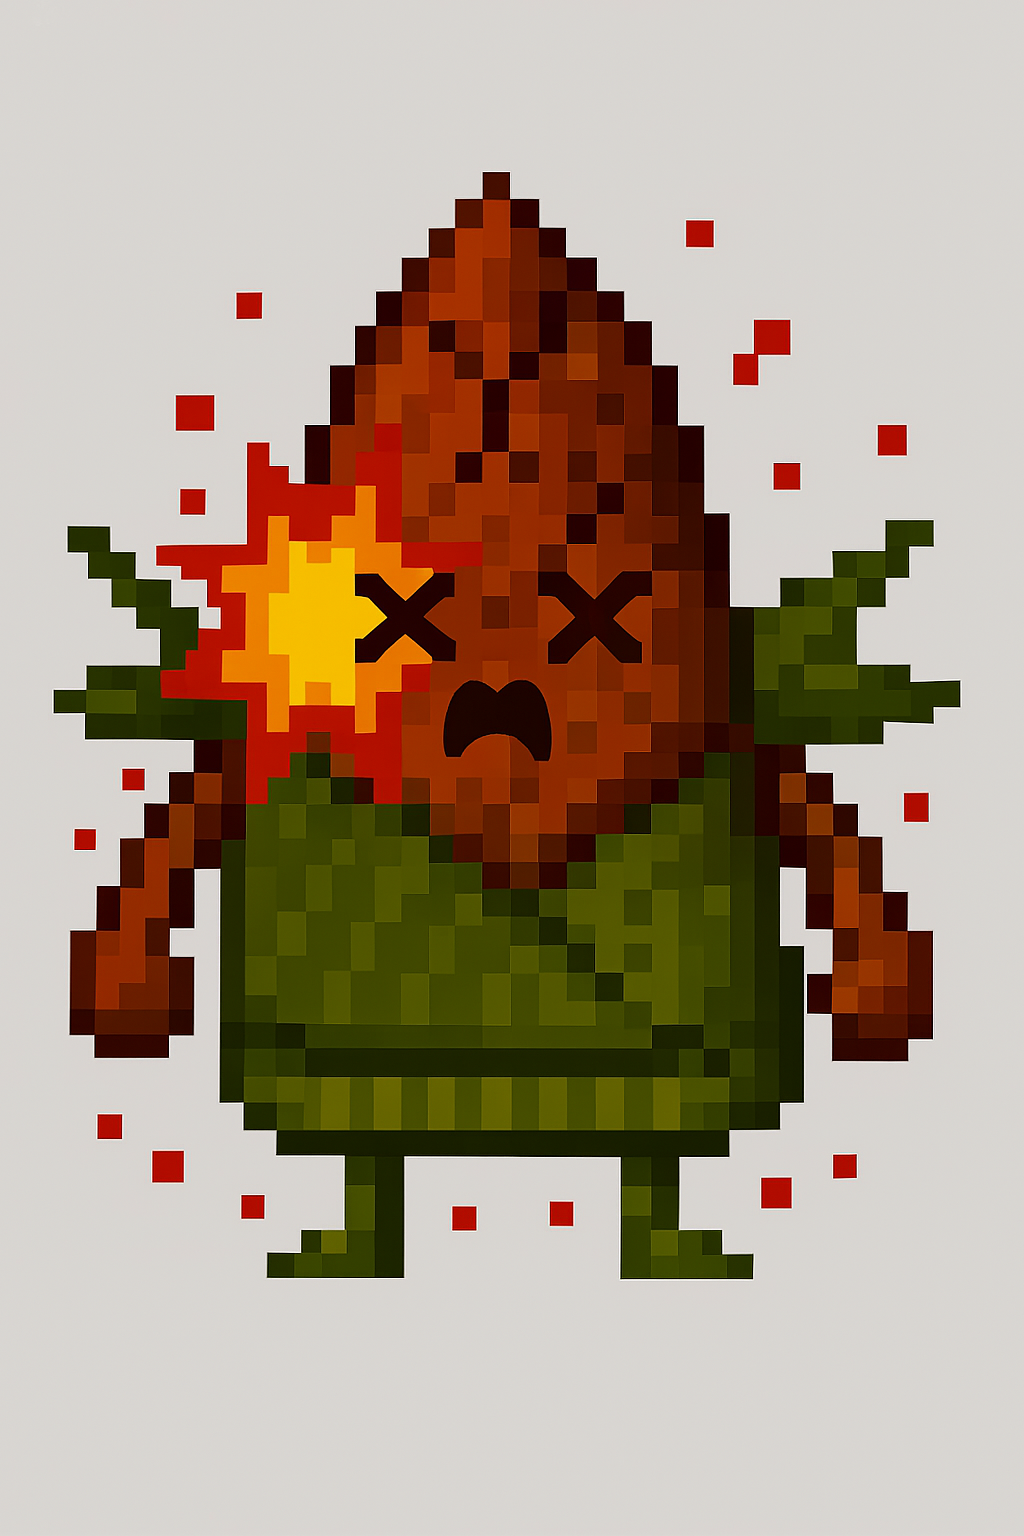
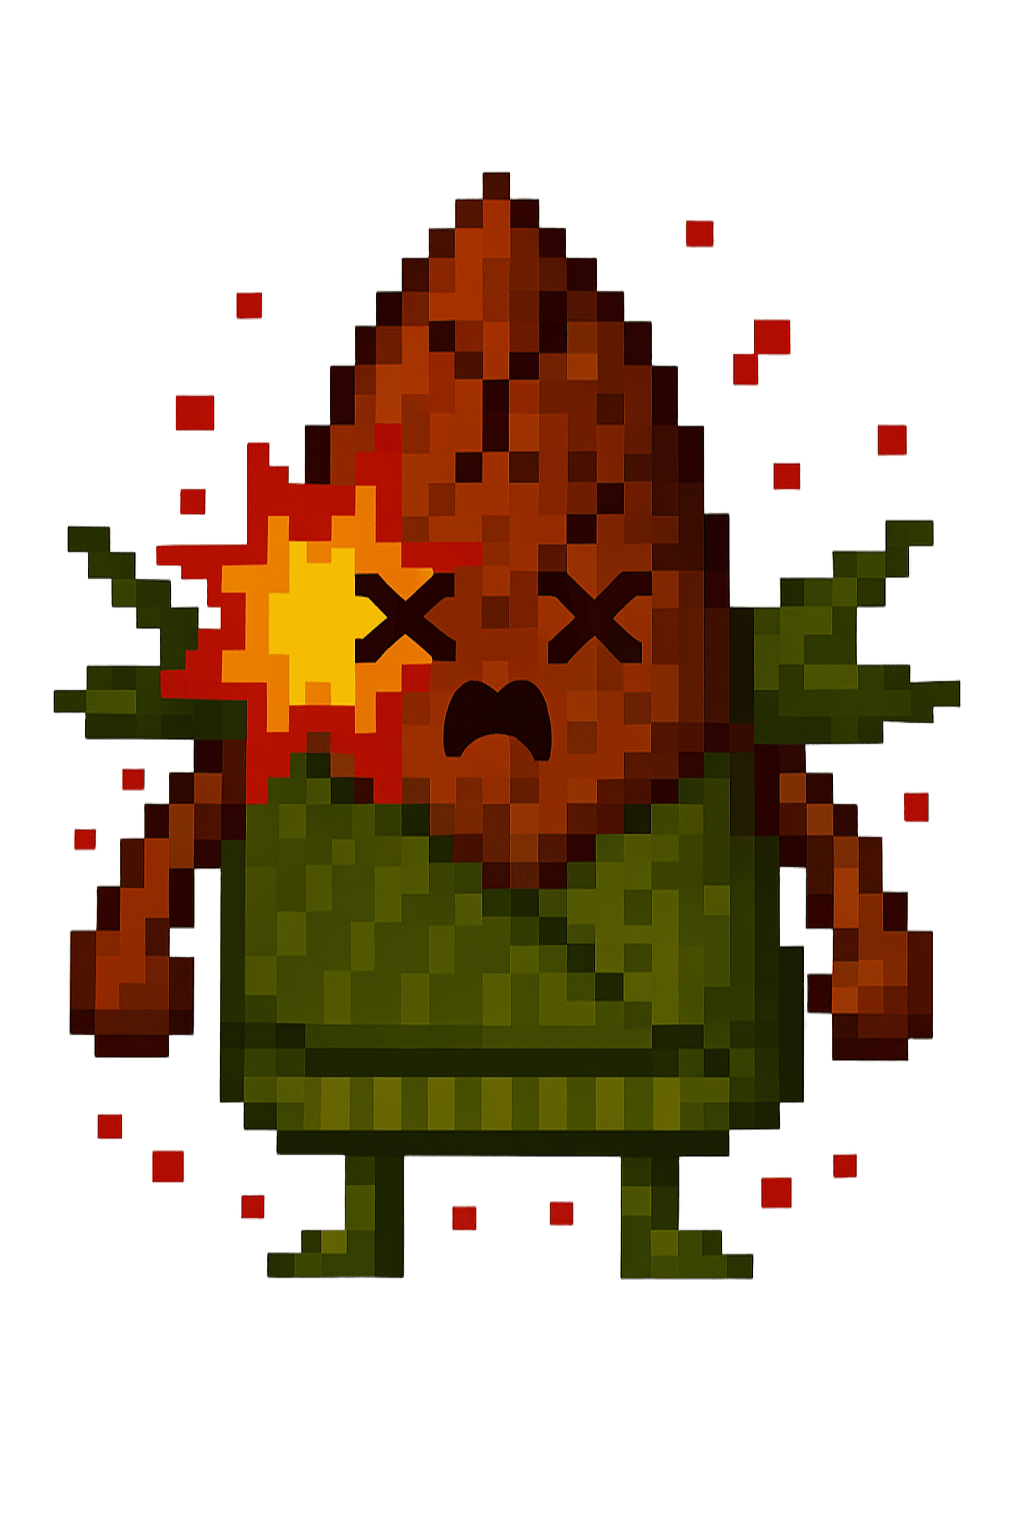
画像の追加

diff --git a/Src/Object/Boss/BigBoss/Nokopy/Attack/BamBeam.cpp b/Src/Object/Boss/BigBoss/Nokopy/Attack/BamBeam.cpp
@@ -2,6 +2,7 @@
 #include"../../../../../Application.h"
 BamBeam::BamBeam()
 {
+	img_ = LoadGraph("Data/Image/Boss/Nokopy/Bamboo.png");
 }
 
 BamBeam::~BamBeam()
@@ -12,13 +13,13 @@ void BamBeam::Init(const Vector2F* pos)
 {
 	AttackBase::Init(pos);
 	obj_.radius_ = 128;
-	obj_.size_ = { 32,128 };
+	obj_.size_ = { 32,35 };
 	obj_.speed_ = 10.0f;
 	lookOn_ = false;
 	obj_.isAlive_ = false;
 	obj_.isCircle_ = false;
 	target_ = { 0.0f,0.0f };
-	drawPos_ = {0.0f, 0.0f};
+	drawPos_ = { 0.0f, 0.0f };
 	isParry_ = true;
 }
 
@@ -43,18 +44,16 @@ void BamBeam::Update(void)
 		{
 		case AttackBase::LEFT:
 			target_.x = 0;
-			drawPos_.x -= (drawPos_.x >= target_.x) ? obj_.speed_*2 : 0;
+			drawPos_.x -= (drawPos_.x >= target_.x) ? obj_.speed_ * 2 : 0;
 
-			obj_.size_.x = (obj_.pos_.x-drawPos_.x)*2;
+			obj_.size_.x = (obj_.pos_.x - drawPos_.x) * 2;
 
-		//	obj_.isAlive_ = (drawPos_.x >= target_.x) ? true : false;
 			break;
 		case AttackBase::RIGHT:
 			target_.x = Application::SCREEN_SIZE_X;
-			drawPos_.x += (drawPos_.x <=target_.x ) ? obj_.speed_*2 : 0;
-			obj_.size_.x =( drawPos_.x-obj_.pos_.x)*2;
+			drawPos_.x += (drawPos_.x <= target_.x) ? obj_.speed_ * 2 : 0;
+			obj_.size_.x = (drawPos_.x - obj_.pos_.x) * 2;
 
-		//	obj_.isAlive_ = (drawPos_.x <= target_.x) ? true : false;
 			break;
 		}
 	}
@@ -64,7 +63,12 @@ void BamBeam::Update(void)
 void BamBeam::Draw(void)
 {
 	if (obj_.isAlive_) {
-	DrawBox(obj_.pos_.x, obj_.pos_.y, drawPos_.x, drawPos_.y+obj_.size_.y/2, GetColor(0, 200, 0), true);
+		if (dir_ == RIGHT) {
+			DrawRectGraph(obj_.pos_.x, obj_.pos_.y, 0, 0, drawPos_.x, drawPos_.y, img_, true);
+		}
+		else {
+			DrawRectGraph(drawPos_.x, obj_.pos_.y, 0, 0, std::abs(drawPos_.x - obj_.pos_.x), drawPos_.y, img_, true);
+		}
 	}
 }
 
@@ -76,7 +80,7 @@ const std::vector<Base> BamBeam::Get(void) const
 {
 	std::vector <Base>ret;
 	ret.emplace_back(obj_);
-    return ret;
+	return ret;
 }
 
 void BamBeam::On(void)

diff --git a/Src/Object/Boss/BigBoss/Nokopy/Attack/Spine.cpp b/Src/Object/Boss/BigBoss/Nokopy/Attack/Spine.cpp
@@ -1,16 +1,20 @@
 #include "Spine.h"
+#include"../../../../../Utility/AsoUtility.h"
 
 Spine::Spine()
 {
 	obj_.resize(MAX_NUM);
 	for (int i = 0; i < obj_.size(); i++) {
 		auto& o = obj_[i];
-		o.size_={ 64,0 };
+		o.radius_ = 32;
+		o.isCircle_ = true;
 		o.pos_.x += i * 168;
 		o.pos_.y = 672;
 		o.isAlive_ = false;
+		isParry_ = true;
 	}
 	couner_ = 0;
+	img_ = LoadGraph("Data/Image/Boss/Nokopy/Takenoko.png");
 }
 
 Spine::~Spine()
@@ -20,8 +24,7 @@ Spine::~Spine()
 void Spine::Init(const Vector2F* pos)
 {
 	for (auto& o : obj_) {
-		o.isAlive_ = true;
-		o.size_ = { 64,0 };
+		o.isAlive_ = false;
 		o.pos_.y = 672;
 
 	}
@@ -39,8 +42,8 @@ void Spine::Update(void)
 		else if (couner_ < 60) {
 		}
 		else if (couner_ < 70) {
-			o.pos_.y -= 100;
-			o.size_.y = -(o.pos_.y- 672);
+			o.isAlive_ = true;
+			o.pos_.y -= 50;
 		}
 	}
 
@@ -49,15 +52,17 @@ void Spine::Update(void)
 
 void Spine::Draw(void)
 {
+	if (couner_ > 0) {
+
 	for (auto& o : obj_) {
-		if (o.isAlive_) {
-		DrawBox(o.pos_.x, o.pos_.y, o.pos_.x + o.size_.x, 672, 0x00ff00, true);
-		}
+			DrawRotaGraph(o.pos_.x, o.pos_.y, 0.1,0, img_, true);
+	}
 	}
 }
 
 void Spine::Release(void)
 {
+	DeleteGraph(img_);
 }
 
 void Spine::Off(void)

diff --git a/Src/Object/Boss/BigBoss/Nokopy/Nokopy.h b/Src/Object/Boss/BigBoss/Nokopy/Nokopy.h
@@ -28,6 +28,7 @@ public:
         DRAW_WAVEMBOO,
         DRAW_SPINE,
         DRAW_RUSHOOT,
+        DRAW_DEATH,
 
         DRAW_MAX,
     };

diff --git a/Src/Object/Boss/BigBoss/Nokopy/Attack/BamBeam.h b/Src/Object/Boss/BigBoss/Nokopy/Attack/BamBeam.h
@@ -22,6 +22,7 @@ private:
     bool lookOn_;
     Vector2F target_;
     Vector2F drawPos_;
+    int img_;
 
 };
 

diff --git a/Src/Object/Boss/BigBoss/Nokopy/Attack/Spine.h b/Src/Object/Boss/BigBoss/Nokopy/Attack/Spine.h
@@ -24,5 +24,6 @@ private:
 
     std::vector<Base>obj_;
     int couner_;
+    int img_;
 };
 
